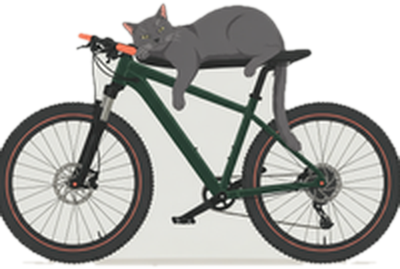
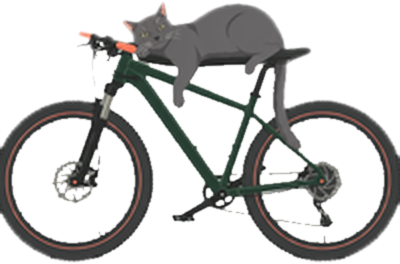
Animacije: manjše, krajši lenivec z zzz takoj, piščanec salto, očiščena tla na slikah
Claude-Session: https://claude.ai/code/session_01SAsx9juPGKNRYSX8HAZXMs

diff --git a/app/index.html b/app/index.html
@@ -246,8 +246,8 @@ textarea{resize:vertical;min-height:84px}
 @keyframes hfh{0%{opacity:0;transform:scale(.2) rotate(-20deg)}60%{opacity:1;transform:scale(1.25) rotate(12deg)}100%{opacity:1;transform:scale(1) rotate(0)}}
 
 .rider-ov{display:block!important;position:absolute;left:0;right:0;top:8%;height:200px;pointer-events:none;overflow:hidden}
-.rider-ov .ri{position:absolute;bottom:0;left:50%;height:170px;width:auto;margin-left:-110px;filter:drop-shadow(0 8px 8px rgba(0,0,0,.18));user-select:none}
-.ov-three .ri{height:140px;margin-left:-110px}
+.rider-ov .ri{position:absolute;bottom:0;left:50%;height:140px;width:auto;margin-left:-100px;filter:drop-shadow(0 8px 8px rgba(0,0,0,.18));user-select:none}
+.ov-three .ri{height:115px;margin-left:-90px}
 .ri-z,.ri-hand{position:absolute;opacity:0;font-weight:800}
 .ri-hand{font-size:34px;left:62%;top:6px;animation:rih .5s cubic-bezier(.2,1.4,.4,1) 1.1s forwards}
 @keyframes rih{0%{opacity:0;transform:scale(.2) rotate(-20deg)}100%{opacity:1;transform:scale(1) rotate(8deg)}}
@@ -284,11 +284,11 @@ textarea{resize:vertical;min-height:84px}
 
 .ov-ring{display:grid!important;place-items:center}
 .ov-ring .hf-ring-w{width:150px;height:150px}.ov-ring .hf-ring-w svg{width:150px;height:150px}
-.ov-chick .ri{animation:ri-chick 4.2s ease-in-out both}
-@keyframes ri-chick{0%{transform:translate(-340px,0)}10%{transform:translate(-250px,-34px)}18%{transform:translate(-190px,0)}28%{transform:translate(-110px,-38px)}36%{transform:translate(-50px,0)}46%{transform:translate(0,-42px)}54%{transform:translate(0,0)}64%{transform:translate(0,-30px)}72%{transform:translate(0,0)}78%{transform:translate(0,0)}100%{transform:translate(460px,0)}}
-.ov-sloth .ri{animation:ri-sloth 6.6s cubic-bezier(.2,.7,.3,1) both;transform-origin:50% 100%}
-@keyframes ri-sloth{0%{transform:translate(-300px,-190px)}22%{transform:translate(0,0)}80%{transform:translate(0,0)}100%{transform:translate(460px,0)}}
-.ov-sloth .ri-z{left:54%;top:30px;font-size:20px;animation:riz2 2.4s ease-out 1 both}
+.ov-chick .ri{animation:ri-chick 3.6s ease-in-out both;transform-origin:50% 62%}
+@keyframes ri-chick{0%{transform:translate(-340px,0) rotate(0)}28%{transform:translate(0,0) rotate(0)}34%{transform:translate(0,0) rotate(0);animation-timing-function:ease-out}46%{transform:translate(0,-64px) rotate(180deg);animation-timing-function:ease-in}58%{transform:translate(0,0) rotate(360deg)}66%{transform:translate(0,0) rotate(360deg)}100%{transform:translate(460px,0) rotate(360deg)}}
+.ov-sloth .ri{animation:ri-sloth 4s cubic-bezier(.2,.7,.3,1) both;transform-origin:50% 100%}
+@keyframes ri-sloth{0%{transform:translate(-300px,-190px)}22%{transform:translate(0,0)}78%{transform:translate(0,0)}100%{transform:translate(460px,0)}}
+.ov-sloth .ri-z{left:54%;top:30px;font-size:20px;animation:riz2 1.5s ease-out 1 both}
 @keyframes riz2{0%{opacity:0;transform:translateY(24px) scale(.7)}25%{opacity:1}100%{opacity:0;transform:translateY(-70px) scale(1.3)}}
 .ov-cat .ri{animation:ri-slow 2.4s ease-out both}
 .ov-cat .ri-meh{left:48%;top:10px;font-size:22px;animation:riz3 4.6s ease-out 1.2s 1 both}
@@ -919,8 +919,8 @@ const CAT_SVG='<svg viewBox="0 0 340 200" preserveAspectRatio="xMidYMax meet" fo
 function riderEl(kind){
   const k=kind==='badge'?'three':kind==='chick'?'chick':kind==='sloth'?'sloth':kind==='cat'?'cat':'ring';
   if(k==='ring') return h('div',{class:'rider-ov ov-ring','aria-hidden':'true'},h('div',{class:'hf-ring-w',html:RING_SVG}));
-  const kids=[h('img',{class:'ri',src:'img/'+k+'.png?v=3',alt:'',draggable:'false'})];
-  if(k==='sloth') for(let n=0;n<5;n++) kids.push(h('span',{class:'ri-z',style:'animation-delay:'+(1.3+n*.85)+'s',text:'z'+(n%2?' z':' z z')}));
+  const kids=[h('img',{class:'ri',src:'img/'+k+'.png?v=4',alt:'',draggable:'false'})];
+  if(k==='sloth') for(let n=0;n<4;n++) kids.push(h('span',{class:'ri-z',style:'animation-delay:'+(.3+n*.6)+'s',text:'z'+(n%2?' z':' z z')}));
   if(k==='cat') kids.push(h('span',{class:'ri-z ri-meh',text:'meh…'}));
   return h('div',{class:'rider-ov ov-'+k,'aria-hidden':'true'},kids);
 }
